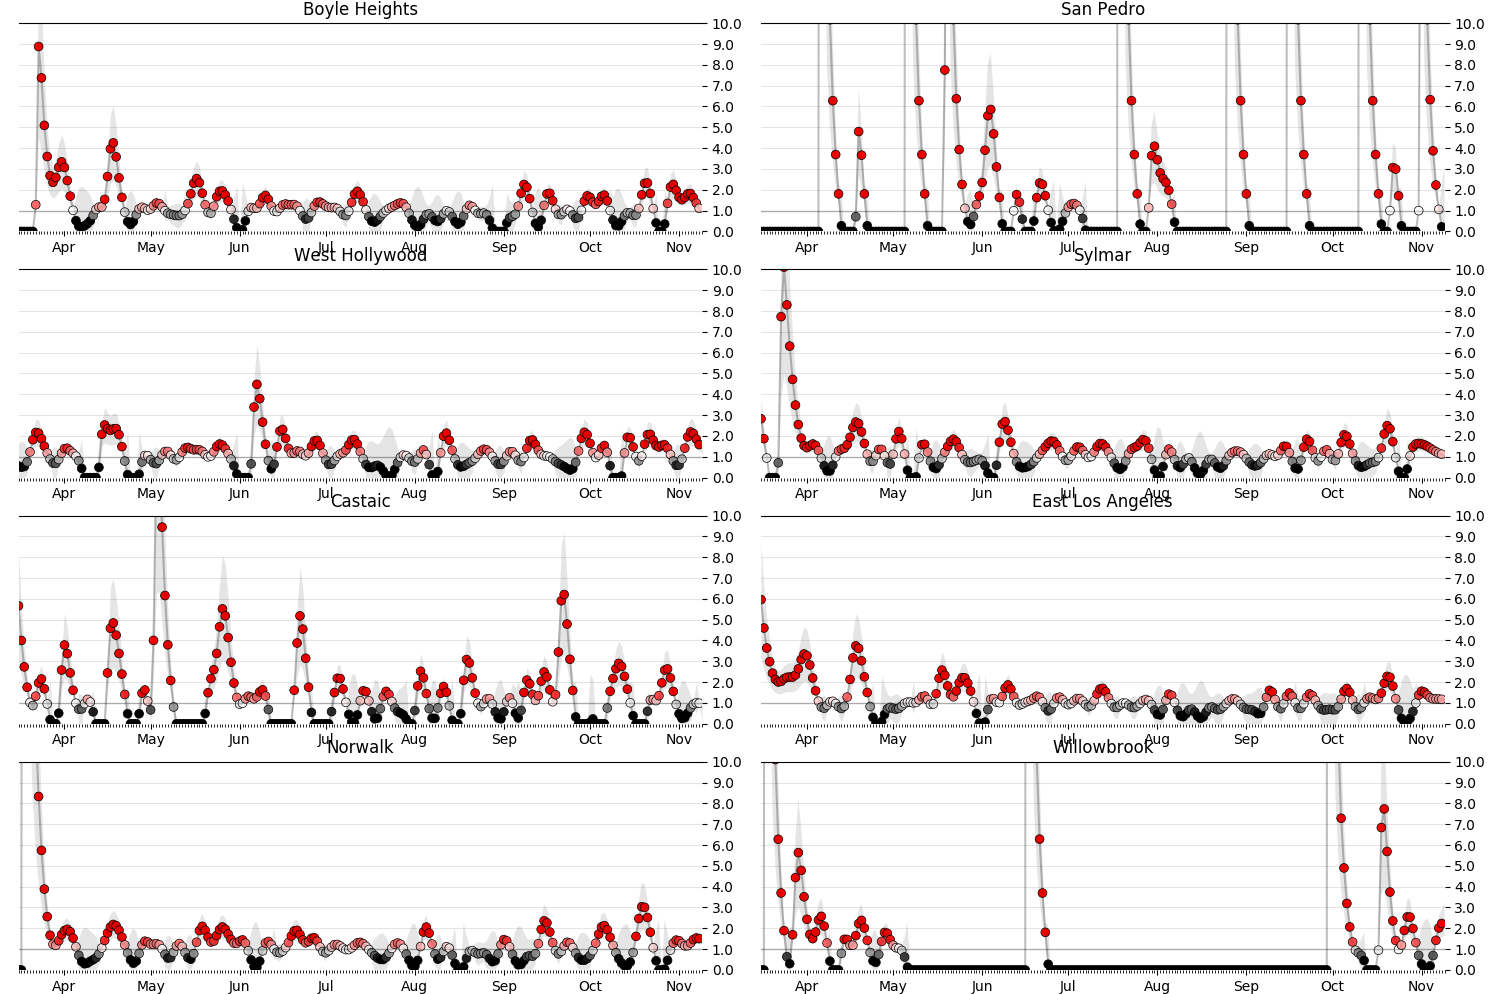
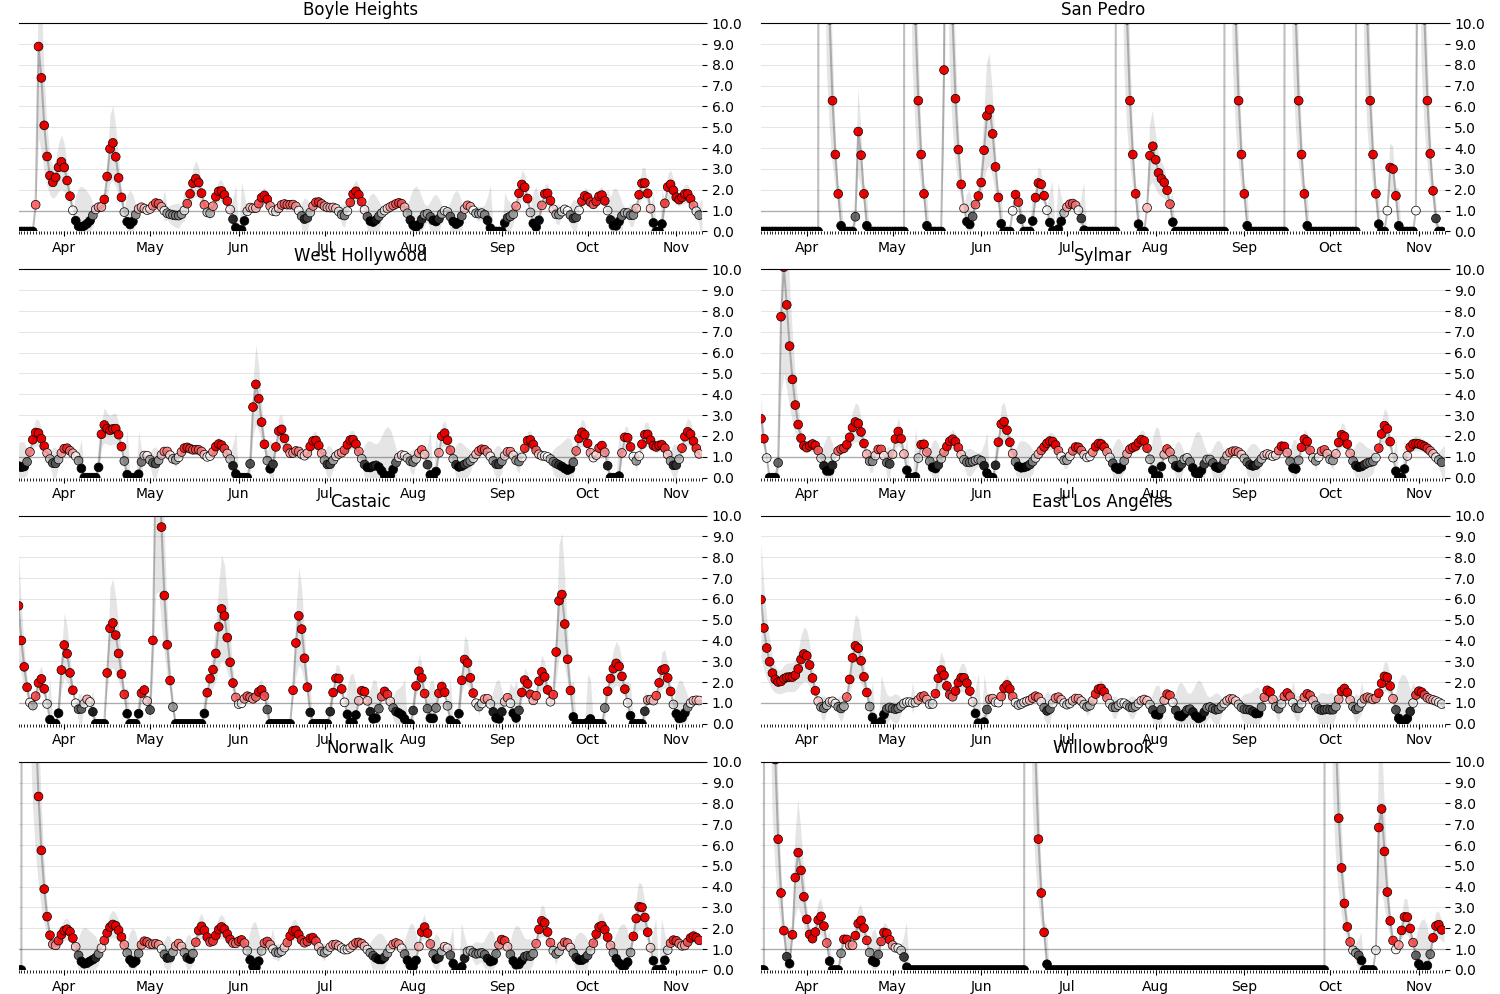
new data and plots added

diff --git a/scripts/plot_density.py b/scripts/plot_density.py
@@ -165,5 +165,5 @@ if __name__ == "__main__":
 	top_k_community_with_highest_confirmed = 6
 	# Display mode: daily or cumulative
 	display_mode = 'cumulative'
-	number_of_days_passed_from_16th = 240
+	number_of_days_passed_from_16th = 255 - 16 + 1
 	main(top_k_community_with_highest_confirmed,display_mode, 16 + number_of_days_passed_from_16th)

diff --git a/scripts/plot_cases_daily.py b/scripts/plot_cases_daily.py
@@ -128,5 +128,5 @@ if __name__ == "__main__":
 	top_k_community_with_highest_confirmed = 6
 	# Display mode: daily or cumulative
 	display_mode = 'daily'
-	number_of_days_passed_from_16th = 240
+	number_of_days_passed_from_16th = 255 - 16 + 1
 	main(top_k_community_with_highest_confirmed,display_mode, 16 + number_of_days_passed_from_16th)

diff --git a/scripts/mapping_uninc_to_main_comm.py b/scripts/mapping_uninc_to_main_comm.py
@@ -177,3 +177,7 @@ for key in cases:
 #writing dictionary to a JSON file
 out_file = open(out_path,'w+')
 json.dump(new_case_data_dict, out_file)
+out_file_lacounty_covid = open(abs_file_path_json,'w+')
+json.dump(new_case_data_dict, out_file_lacounty_covid)
+
+
